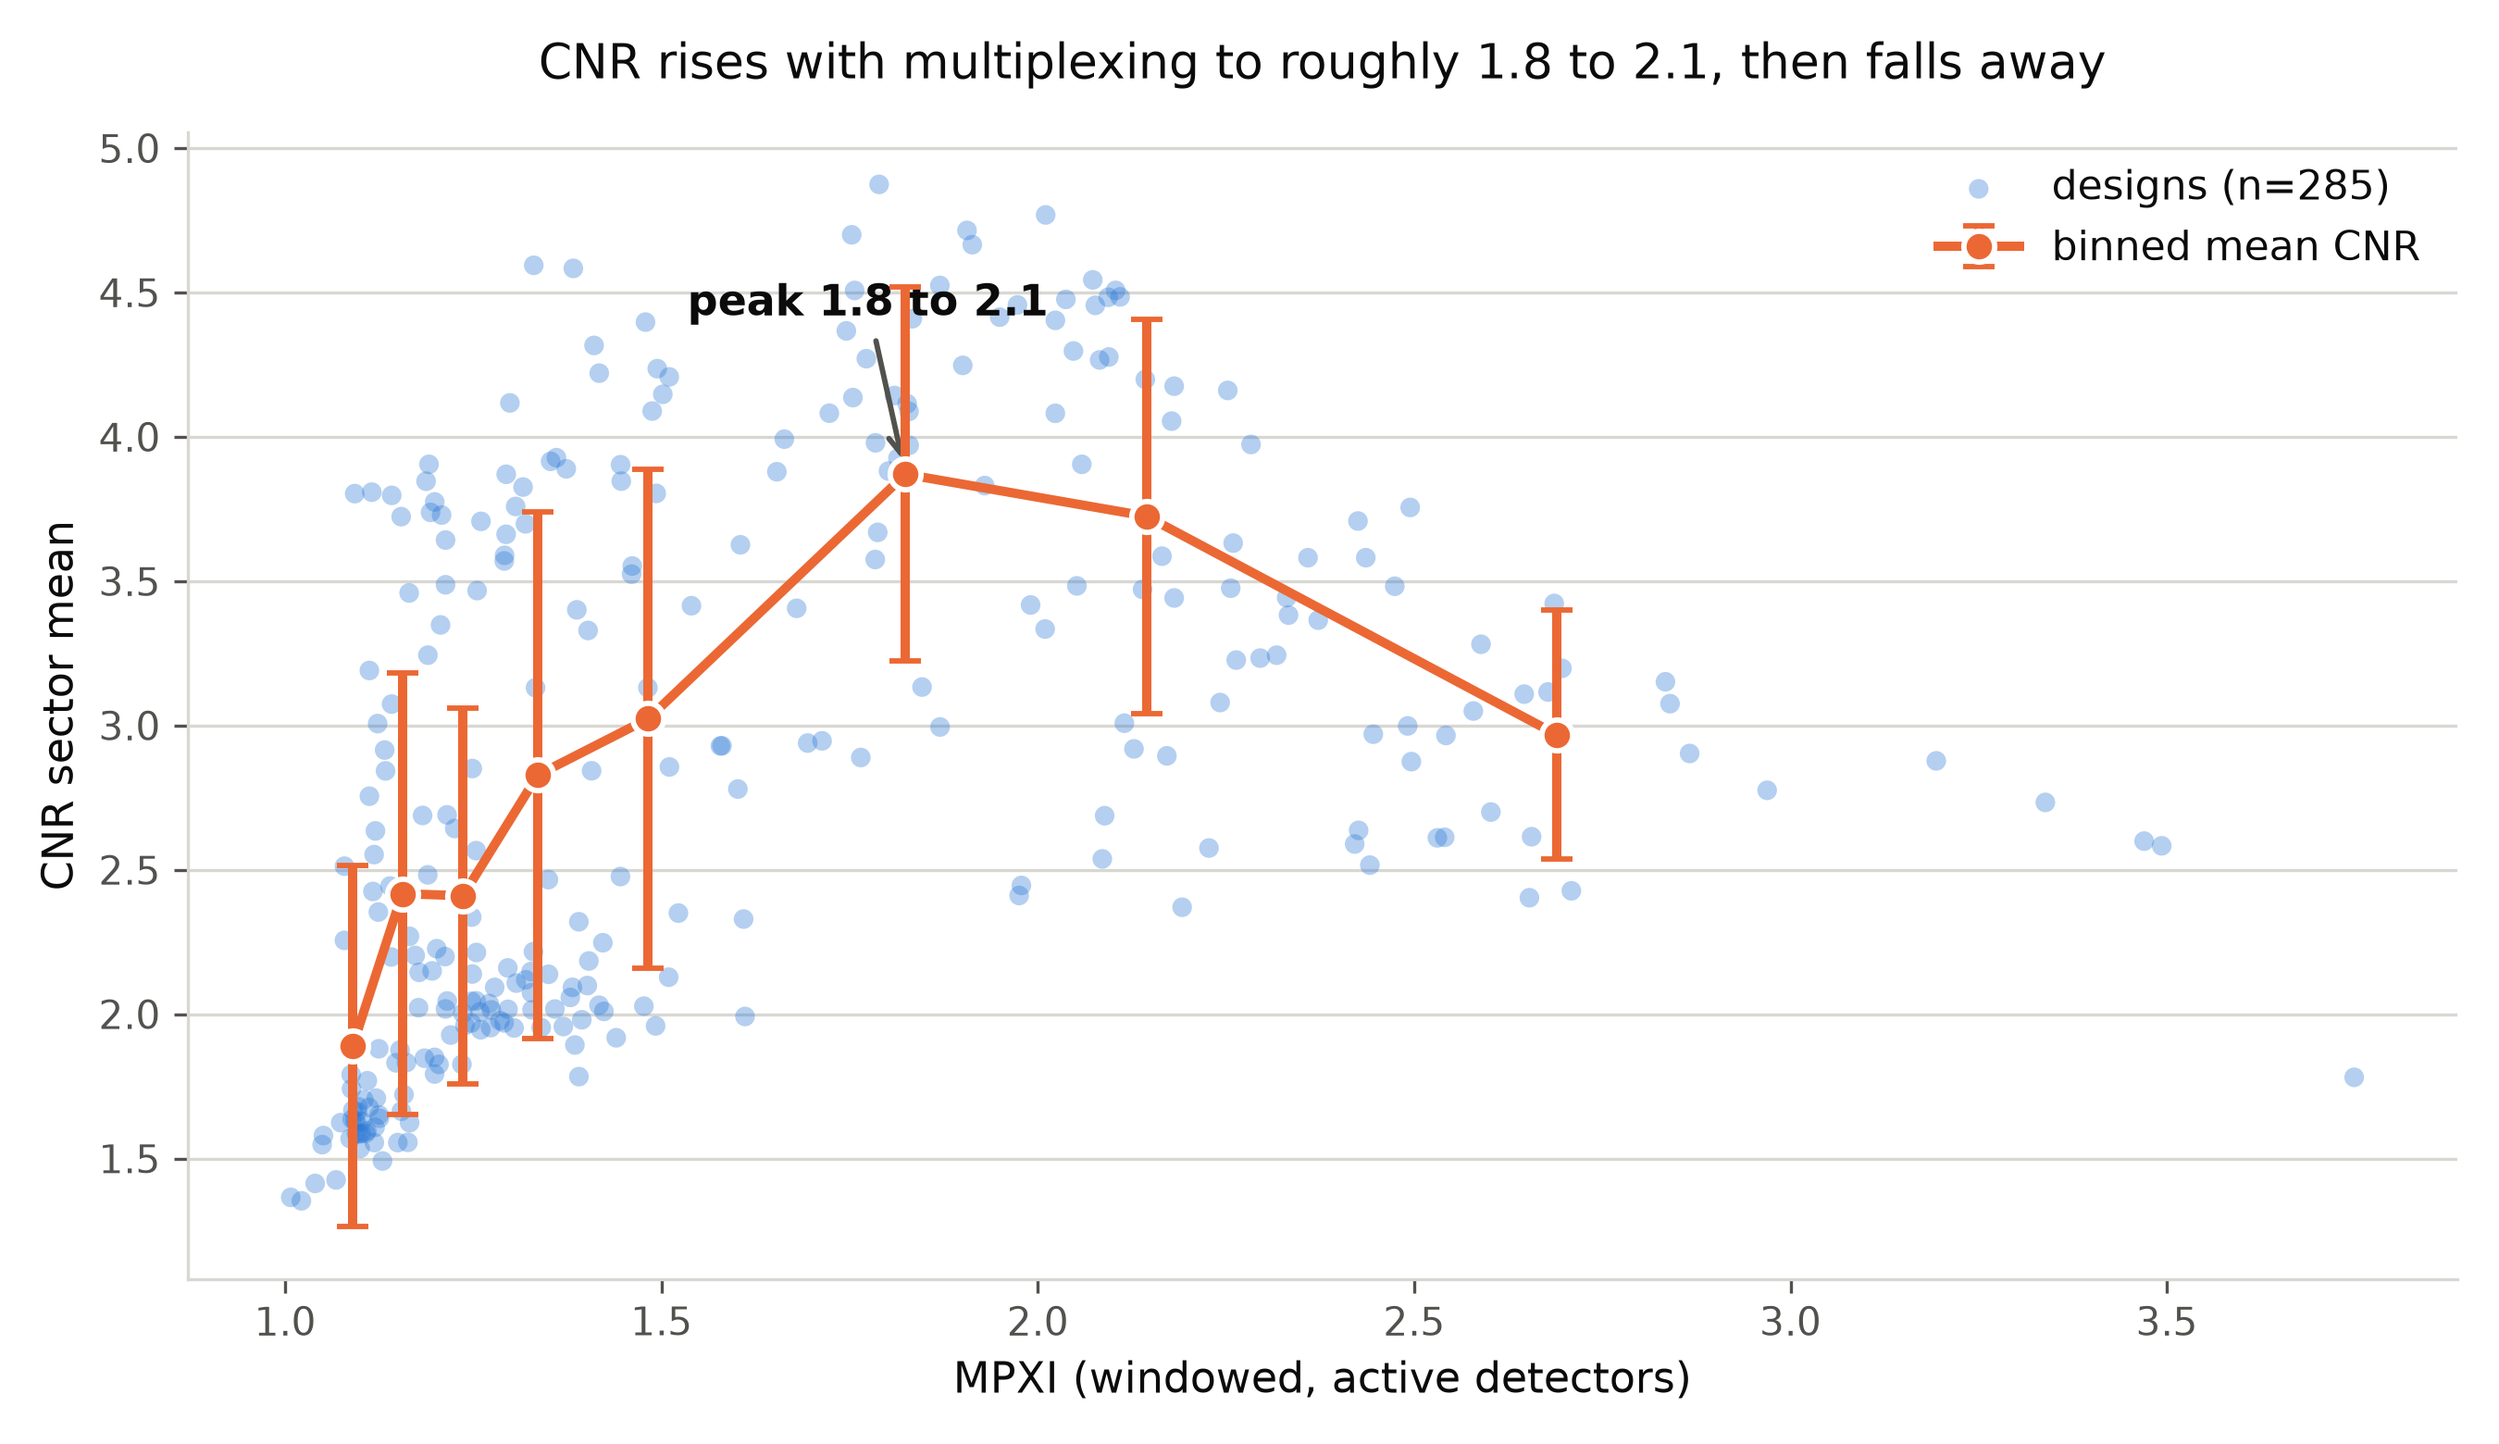
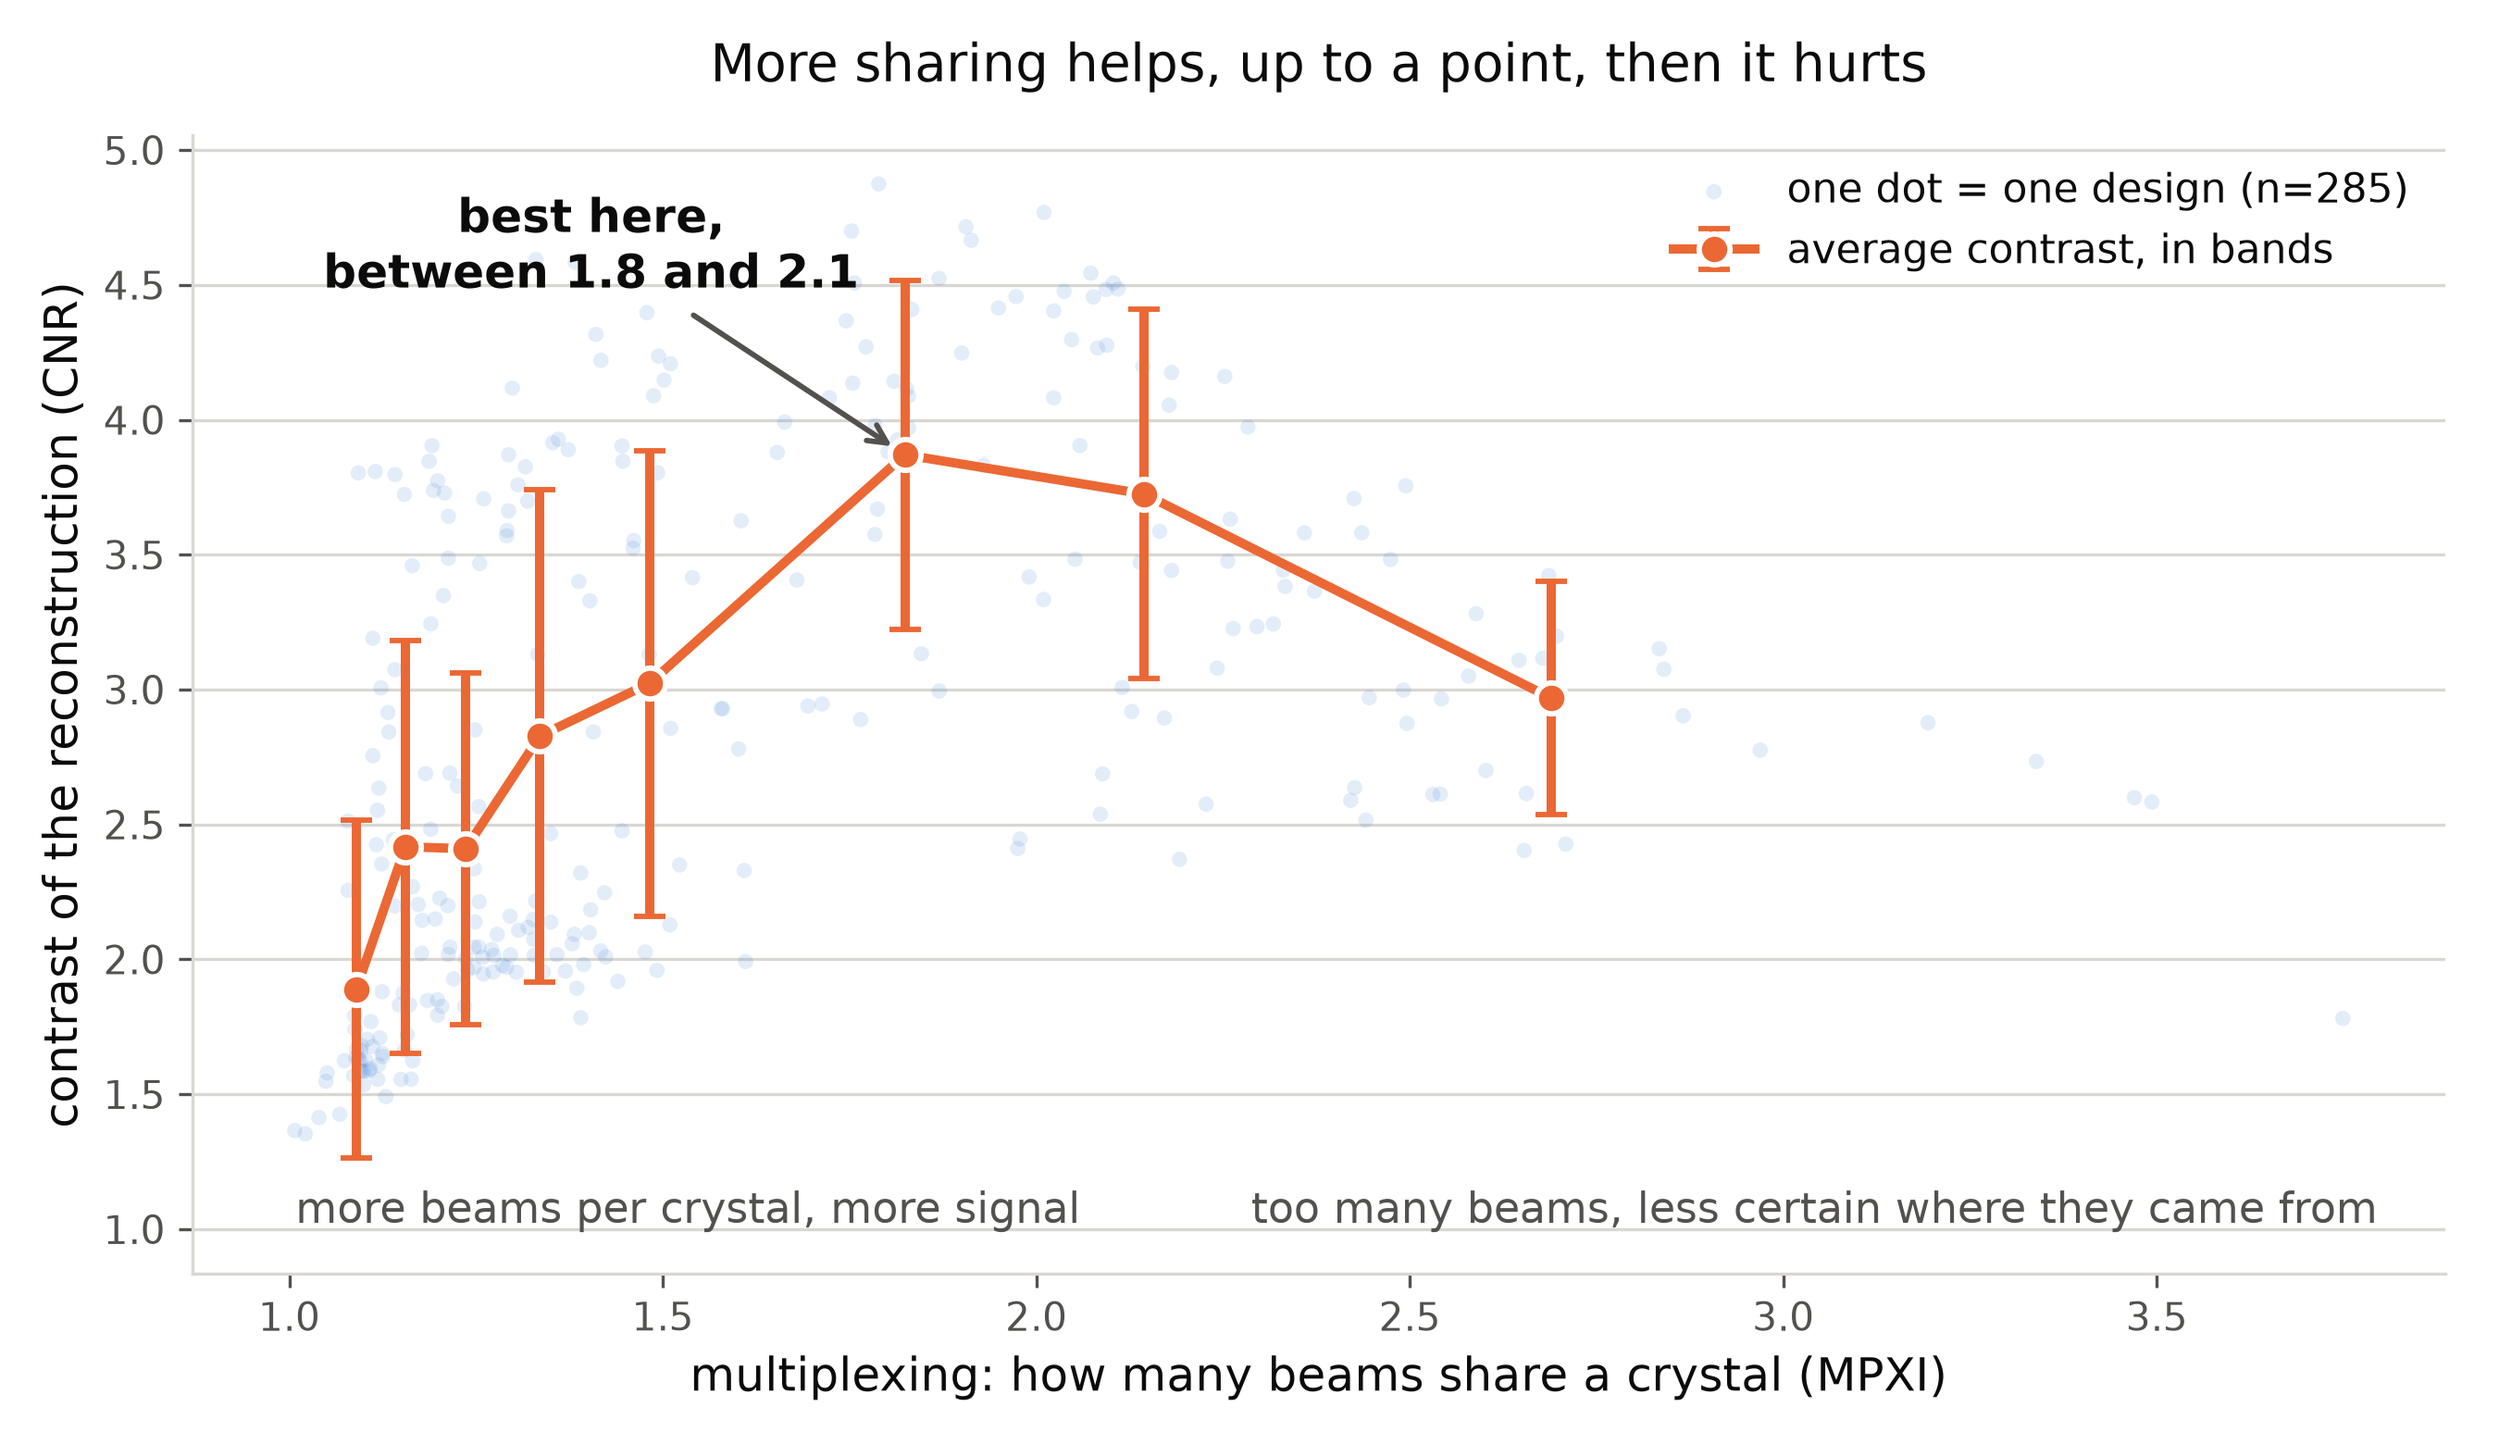
Simplify the trade-off and multiplexing figures for a general audience

diff --git a/spebt/optimization/make_tradeoff_figure.py b/spebt/optimization/make_tradeoff_figure.py
@@ -46,83 +46,73 @@ INK, INK_MUTED, GRID = "#0b0b0b", "#52514e", "#d8d7d2"
 
 
 def main():
-    ap = argparse.ArgumentParser(description=__doc__,
-                                 formatter_class=argparse.RawDescriptionHelpFormatter)
+    """Two stacked panels, one scale each.
+
+    Dr. Yao, 16 Oct: the dual-axis version was not readable. Two y-axes on one
+    frame force the reader to work out which curve belongs to which scale
+    before they can see the point. Stacked panels sharing the x-axis say the
+    same thing with no decoding: this rises all the way, that turns over.
+    """
+    ap = argparse.ArgumentParser()
     ap.add_argument("--out", default="asci_cnr_tradeoff.png")
     ap.add_argument("--dpi", type=int, default=300)
     args = ap.parse_args()
 
-    fig, ax = plt.subplots(figsize=(9.5, 5.2))
+    sem = [sd / np.sqrt(N_SEEDS) for sd in CNR_SD]
+    # The argmax alone is over-precise: 414, 435 and 456 mm are all within
+    # two standard errors of each other. The honest statement is where
+    # contrast FIRST drops clearly below the peak.
+    k = int(np.argmax(CNR))
+    sem_all = [sd / np.sqrt(N_SEEDS) for sd in CNR_SD]
+    below = [i for i in range(k + 1, len(CNR))
+             if (CNR[k] - CNR[i]) / np.sqrt(sem_all[i] ** 2 + sem_all[k] ** 2) > 2]
+    if not below:
+        raise SystemExit("ERROR: contrast never drops clearly below the peak")
+    turn = D2[below[0] - 1]
+
+    fig, (ax_a, ax_c) = plt.subplots(
+        2, 1, figsize=(9.2, 5.6), sharex=True,
+        gridspec_kw=dict(hspace=0.42, height_ratios=[1, 1]))
     fig.patch.set_facecolor("white")
-    ax.set_facecolor("white")
 
-    ax.plot(D2, ASCI, "-o", color=C_ASCI, lw=2.2, ms=7, zorder=3,
-            label="ASCI @ 0.45 mm (angular coverage)")
-    ax.set_xlabel("Ring-2 inner diameter (mm)", color=INK, fontsize=11)
-    ax.set_ylabel("ASCI @ 0.45 mm  (%)", color=C_ASCI, fontsize=11)
-    ax.tick_params(axis="y", colors=C_ASCI)
-    ax.tick_params(axis="x", colors=INK_MUTED)
-    ax.set_ylim(55, 66)
+    ax_a.plot(D2, ASCI, "-o", color=C_ASCI, lw=2.4, ms=7, zorder=3)
+    ax_a.set_ylabel("angular coverage\nASCI (%)", fontsize=12, color=C_ASCI)
+    ax_a.set_title("Move ring 2 outward and angular coverage keeps rising",
+                   fontsize=12.5, color=INK, pad=7, loc="left")
 
-    ax2 = ax.twinx()
-    sem = np.array(CNR_SD) / np.sqrt(N_SEEDS)
-    ax2.errorbar(D2, CNR, yerr=sem, fmt="-s", color=C_CNR, lw=2.2, ms=7,
-                 capsize=3, elinewidth=1.4, zorder=3,
-                 label="CNR sector-mean (contrast), 5 seeds")
-    ax2.set_ylabel("CNR sector-mean", color=C_CNR, fontsize=11)
-    ax2.tick_params(axis="y", colors=C_CNR)
-    ax2.set_ylim(4.20, 4.78)
+    ax_c.errorbar(D2, CNR, yerr=sem, fmt="-s", color=C_CNR, lw=2.4, ms=7,
+                  capsize=4, zorder=3)
+    ax_c.set_ylabel("contrast\nCNR", fontsize=12, color=C_CNR)
+    ax_c.set_xlabel("ring-2 inner diameter (mm)", fontsize=12, color=INK)
+    ax_c.set_title(f"but contrast is flat to about {turn:.0f} mm, then falls away",
+                   fontsize=12.5, color=INK, pad=7, loc="left")
 
-    ax.grid(True, axis="y", color=GRID, lw=0.8, zorder=0)
-    ax.set_axisbelow(True)
-    for sp in ("top",):
-        ax.spines[sp].set_visible(False)
-        ax2.spines[sp].set_visible(False)
-    for a in (ax, ax2):
-        for sp in ("left", "right", "bottom"):
-            a.spines[sp].set_color(GRID)
+    # One vertical marker on both panels: the place the two disagree.
+    for ax in (ax_a, ax_c):
+        ax.axvline(turn, color=INK_MUTED, lw=1.2, ls="--", zorder=1)
+        ax.set_facecolor("white")
+        ax.yaxis.grid(True, color=GRID, lw=0.8)
+        ax.set_axisbelow(True)
+        for side in ("top", "right"):
+            ax.spines[side].set_visible(False)
+        for side in ("left", "bottom"):
+            ax.spines[side].set_color(GRID)
+        ax.tick_params(colors=INK_MUTED, labelsize=10.5)
+    # No cross-panel annotation: it ran through the lower title. The
+    # dashed line and the panel titles carry it.
 
-    # Crystal count on a secondary x-axis: it rises with radius along this
-    # sweep, and leaving it off invites the reading that count is the driver.
-    axt = ax.secondary_xaxis("top")
-    axt.set_xticks(D2[::2])
-    axt.set_xticklabels([str(n) for n in ND2[::2]])
-    axt.set_xlabel("Ring-2 crystal count (rises with radius here)",
-                   color=INK_MUTED, fontsize=9, labelpad=3)
-    axt.tick_params(colors=INK_MUTED, labelsize=9)
-    axt.spines["top"].set_color(GRID)
-
-    h1, l1 = ax.get_legend_handles_labels()
-    h2, l2 = ax2.get_legend_handles_labels()
-    leg = ax.legend(h1 + h2, l1 + l2, loc="lower left", frameon=False,
-                    fontsize=10)
-    for t in leg.get_texts():
-        t.set_color(INK)
-
-    # Title and subtitle live at figure level with an explicit top margin, so
-    # they cannot collide with the secondary axis label the way an axes-level
-    # title did.
-    fig.text(0.075, 0.955,
-             "Angular coverage rises throughout; contrast holds, then falls "
-             "past ~455 mm",
-             color=INK, fontsize=13.5, ha="left", va="top", weight="semibold")
-    fig.text(0.075, 0.900,
-             "Every CNR point is a 5-seed mean; bars are standard errors. "
-             "The last three sit clearly below the first four.",
-             color=INK_MUTED, fontsize=9.5, ha="left", va="top")
-
-    fig.tight_layout(rect=[0, 0, 1, 0.83])
+    fig.text(0.5, 0.012,
+             f"Every contrast point is a mean over {N_SEEDS} noise "
+             f"realizations; bars are standard errors.",
+             ha="center", fontsize=10, color=INK_MUTED, style="italic")
+    fig.tight_layout(rect=(0, 0.04, 1, 1))
     fig.savefig(args.out, dpi=args.dpi, facecolor="white")
     print(f"wrote {args.out}")
-
-    print("\nsanity check against the source numbers:")
-    from scipy.stats import spearmanr
-    print("  Spearman(d2, ASCI) = %+.2f" % spearmanr(D2, ASCI).correlation)
-    print("  Spearman(d2, CNR)  = %+.2f" % spearmanr(D2, CNR).correlation)
-    print("  ASCI %.2f to %.2f  (+%.0f%%)" % (min(ASCI), max(ASCI),
-                                              100*(max(ASCI)-min(ASCI))/min(ASCI)))
-    print("  CNR  %.3f to %.3f  (-%.0f%%)" % (min(CNR), max(CNR),
-                                              100*(max(CNR)-min(CNR))/max(CNR)))
+    print(f"  contrast flat to d2 = {turn:.0f} mm; coverage rises "
+          f"{ASCI[0]:.1f} to {ASCI[-1]:.1f}%")
+    if k in (0, len(CNR) - 1):
+        raise SystemExit("ERROR: contrast does not turn over inside the range; "
+                         "the panel titles would be wrong.")
 
 
 if __name__ == "__main__":

diff --git a/spebt/optimization/make_mpxi_optimum_figure.py b/spebt/optimization/make_mpxi_optimum_figure.py
@@ -63,25 +63,36 @@ def main():
     fig.patch.set_facecolor("white")
     ax.set_facecolor("white")
 
-    ax.scatter(df[MPXI], df[CNR], s=26, color=C_POINTS, alpha=0.35,
-               edgecolors="none", zorder=2, label=f"designs (n={len(df)})")
+    # Dr. Yao, 16 Oct: beginner-friendly. 285 raw points drown the one line
+    # that carries the claim, so they fade into the background and the
+    # trend is what the eye lands on.
+    ax.scatter(df[MPXI], df[CNR], s=16, color=C_POINTS, alpha=0.13,
+               edgecolors="none", zorder=2, label=f"one dot = one design "
+               f"(n={len(df)})")
     ax.errorbar(g["x"], g["y"], yerr=g["sd"], color=C_TREND, lw=2.4,
                 marker="o", ms=8, capsize=4, zorder=4,
                 markeredgecolor="white", markeredgewidth=1.4,
-                label="binned mean CNR")
+                label="average contrast, in bands")
 
     # One annotation carrying the claim, rather than a label on every bin.
-    ax.annotate(f"peak {lo_x:.1f} to {hi_x:.1f}",
-                xy=(peak_x, peak_y), xytext=(peak_x - 0.05, peak_y + 0.55),
-                fontsize=11, fontweight="bold", color=INK, ha="center",
+    ax.annotate(f"best here,\nbetween {lo_x:.1f} and {hi_x:.1f}",
+                xy=(peak_x, peak_y), xytext=(peak_x - 0.42, peak_y + 0.62),
+                fontsize=12, fontweight="bold", color=INK, ha="center",
                 arrowprops=dict(arrowstyle="->", color=INK_MUTED, lw=1.4,
                                 shrinkA=2, shrinkB=4))
+    # Plain-language captions in a clear band under the data, in axes
+    # fractions so they cannot drift into the error bars.
+    ax.text(0.22, 0.045, "more beams per crystal, more signal",
+            transform=ax.transAxes, fontsize=11, color=INK_MUTED, ha="center")
+    ax.text(0.72, 0.045, "too many beams, less certain where they came from",
+            transform=ax.transAxes, fontsize=11, color=INK_MUTED, ha="center")
 
-    ax.set_xlabel("MPXI (windowed, active detectors)", fontsize=11, color=INK)
-    ax.set_ylabel("CNR sector mean", fontsize=11, color=INK)
-    ax.set_title(f"CNR rises with multiplexing to roughly {lo_x:.1f} to "
-                 f"{hi_x:.1f}, then falls away",
-                 fontsize=12.5, color=INK, pad=14)
+    ax.set_xlabel("multiplexing: how many beams share a crystal (MPXI)",
+                  fontsize=12, color=INK)
+    ax.set_ylabel("contrast of the reconstruction (CNR)", fontsize=12,
+                  color=INK)
+    ax.set_title(f"More sharing helps, up to a point, then it hurts",
+                 fontsize=13.5, color=INK, pad=14)
 
     ax.yaxis.grid(True, color=GRID, lw=0.8, zorder=0)
     ax.set_axisbelow(True)
@@ -95,6 +106,7 @@ def main():
     for t in leg.get_texts():
         t.set_color(INK)
 
+    ax.set_ylim(bottom=float(df[CNR].min()) - 0.52)
     fig.tight_layout()
     fig.savefig(args.out, dpi=args.dpi, facecolor="white")
     print(f"wrote {args.out}")
